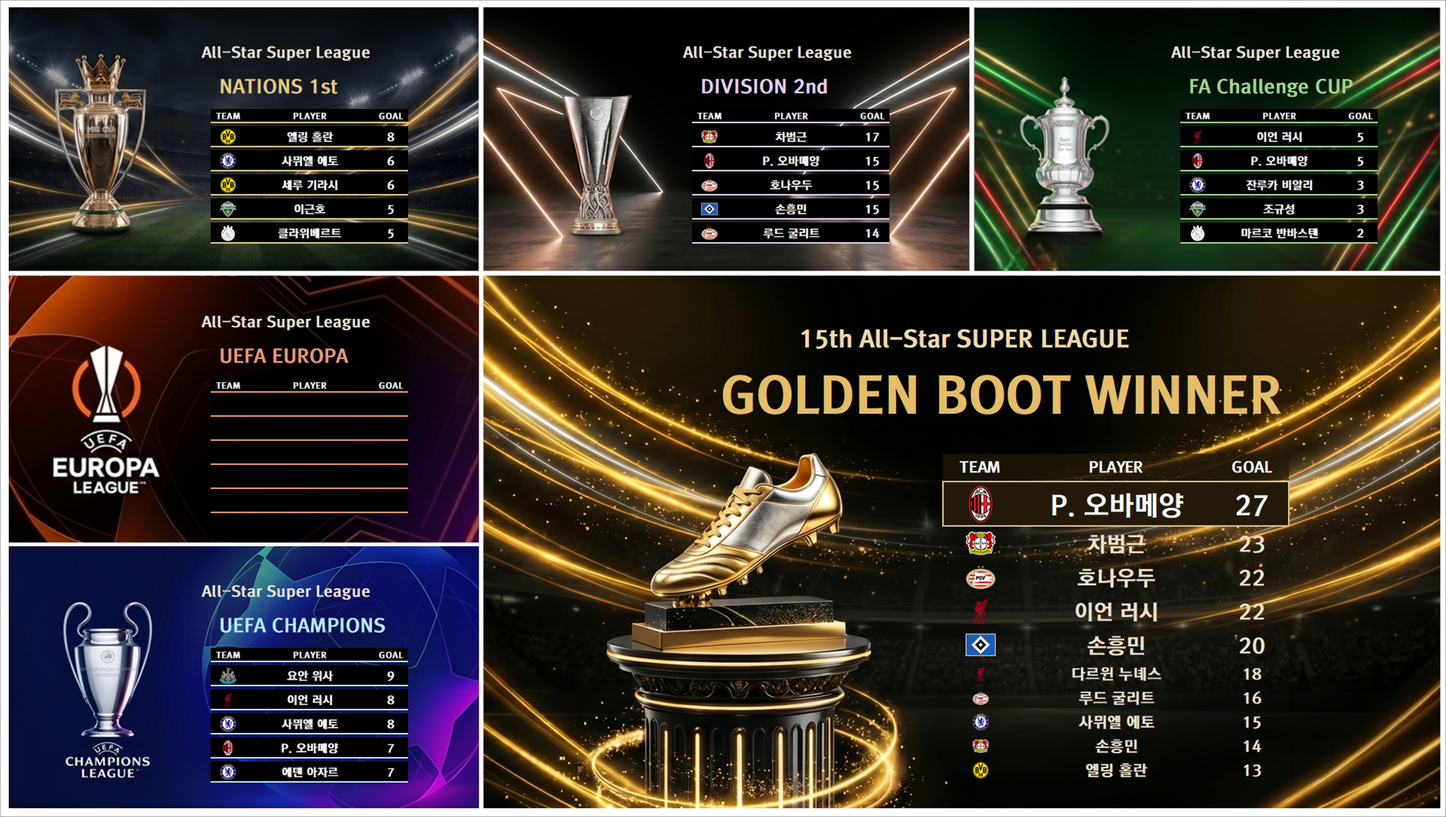
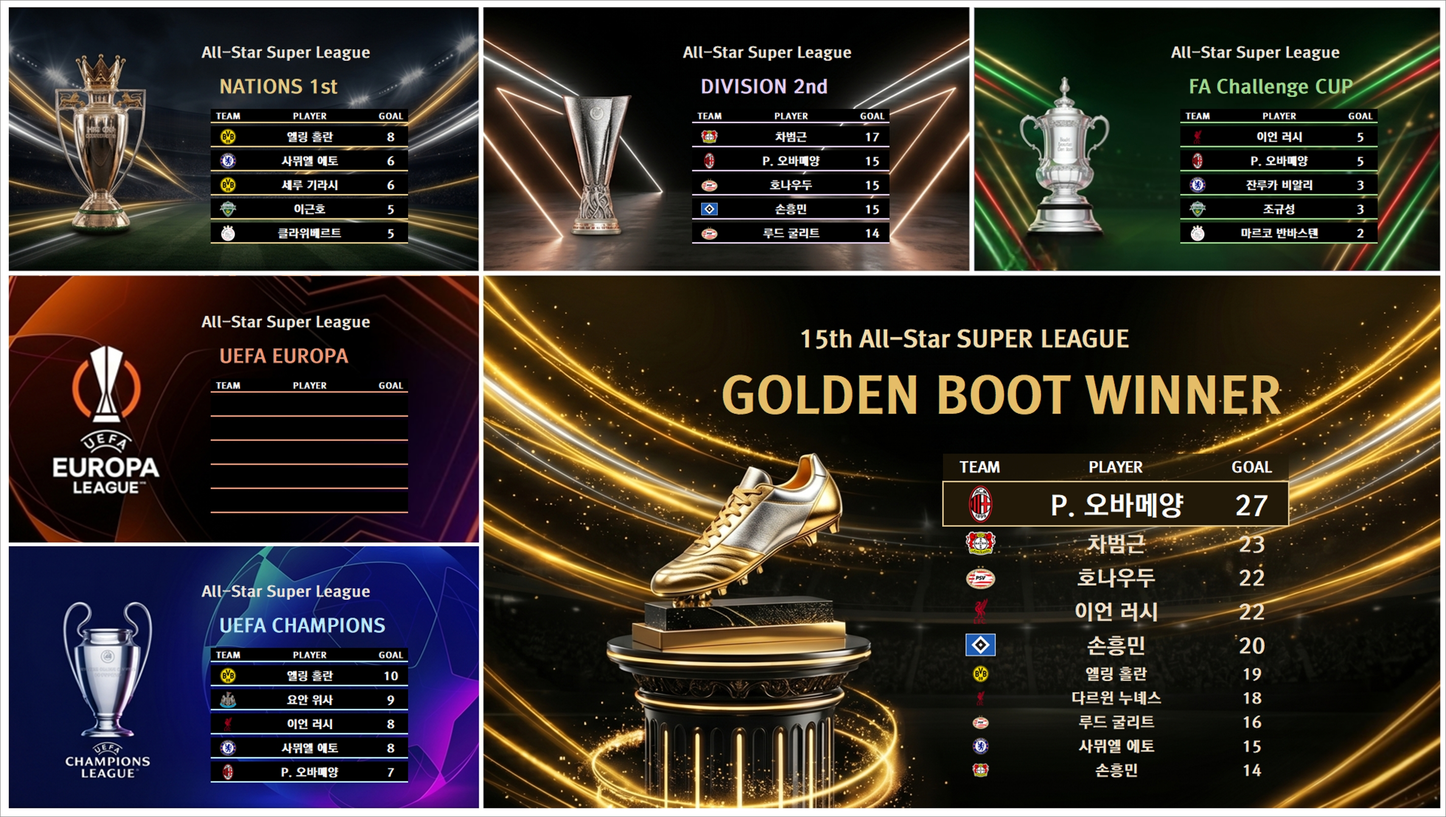
Optimize: 22:58:15

Changed region(s): [[0.1562, 0.8075, 0.2812, 0.9627], [0.7497, 0.8075, 0.8122, 0.9627], [0.656, 0.8075, 0.6873, 0.9627]]

diff --git a/index.html b/index.html
@@ -68,13 +68,13 @@
     </div>
     
     <div class="container">
-        <div class="card"><h2>⚽ GOLDEN BOOT</h2><img src="https://i.ibb.co/zVZJRJy8/fd1d9ca5ddd4.jpg" alt="득점왕" loading="lazy"></div>
+        <div class="card"><h2>⚽ GOLDEN BOOT</h2><img src="https://i.ibb.co/1Ytg5s4N/5cf7a551de5c.jpg" alt="득점왕" loading="lazy"></div>
         <div class="card"><h2>🎯 PLAYMAKER</h2><img src="https://i.ibb.co/fdyYRNxs/7e26db220cec.jpg" alt="플레이메이커" loading="lazy"></div>
         <div class="card"><h2>🥇 1부리그</h2><img src="https://i.ibb.co/DD2BrKMS/8c1b1249ab4b.jpg" alt="1부 리그" loading="lazy"></div>
         <div class="card"><h2>🥈 2부리그</h2><img src="https://i.ibb.co/Ldc9px0w/29eb2a853e21.jpg" alt="2부 리그" loading="lazy"></div>
         <div class="card"><h2>🏅 FA컵 토너먼트</h2><img src="https://i.ibb.co/SD600s16/7fe1248fc20f.jpg" alt="FA컵" loading="lazy"></div>
-        <div class="card"><h2>🌟 UCL 그룹스테이지</h2><img src="https://i.ibb.co/cc1NDjKp/07ae7d9ba35c.jpg" alt="UCL 조별" loading="lazy"></div>
-        <div class="card"><h2>🏆 UCL 토너먼트</h2><img src="https://i.ibb.co/84DJ4Hhy/08e3e990bccd.jpg" alt="UCL 토너" loading="lazy"></div>
+        <div class="card"><h2>🌟 UCL 그룹스테이지</h2><img src="https://i.ibb.co/C5zLfd0k/8b5d4f9ebfe3.jpg" alt="UCL 조별" loading="lazy"></div>
+        <div class="card"><h2>🏆 UCL 토너먼트</h2><img src="https://i.ibb.co/DgvWS3KX/54c1625094aa.jpg" alt="UCL 토너" loading="lazy"></div>
         <div class="card"><h2>🎖 UEL 토너먼트</h2><img src="https://i.ibb.co/Qj38n62n/57d78dad38f5.jpg" alt="UEL 토너" loading="lazy"></div>
     </div>
     
